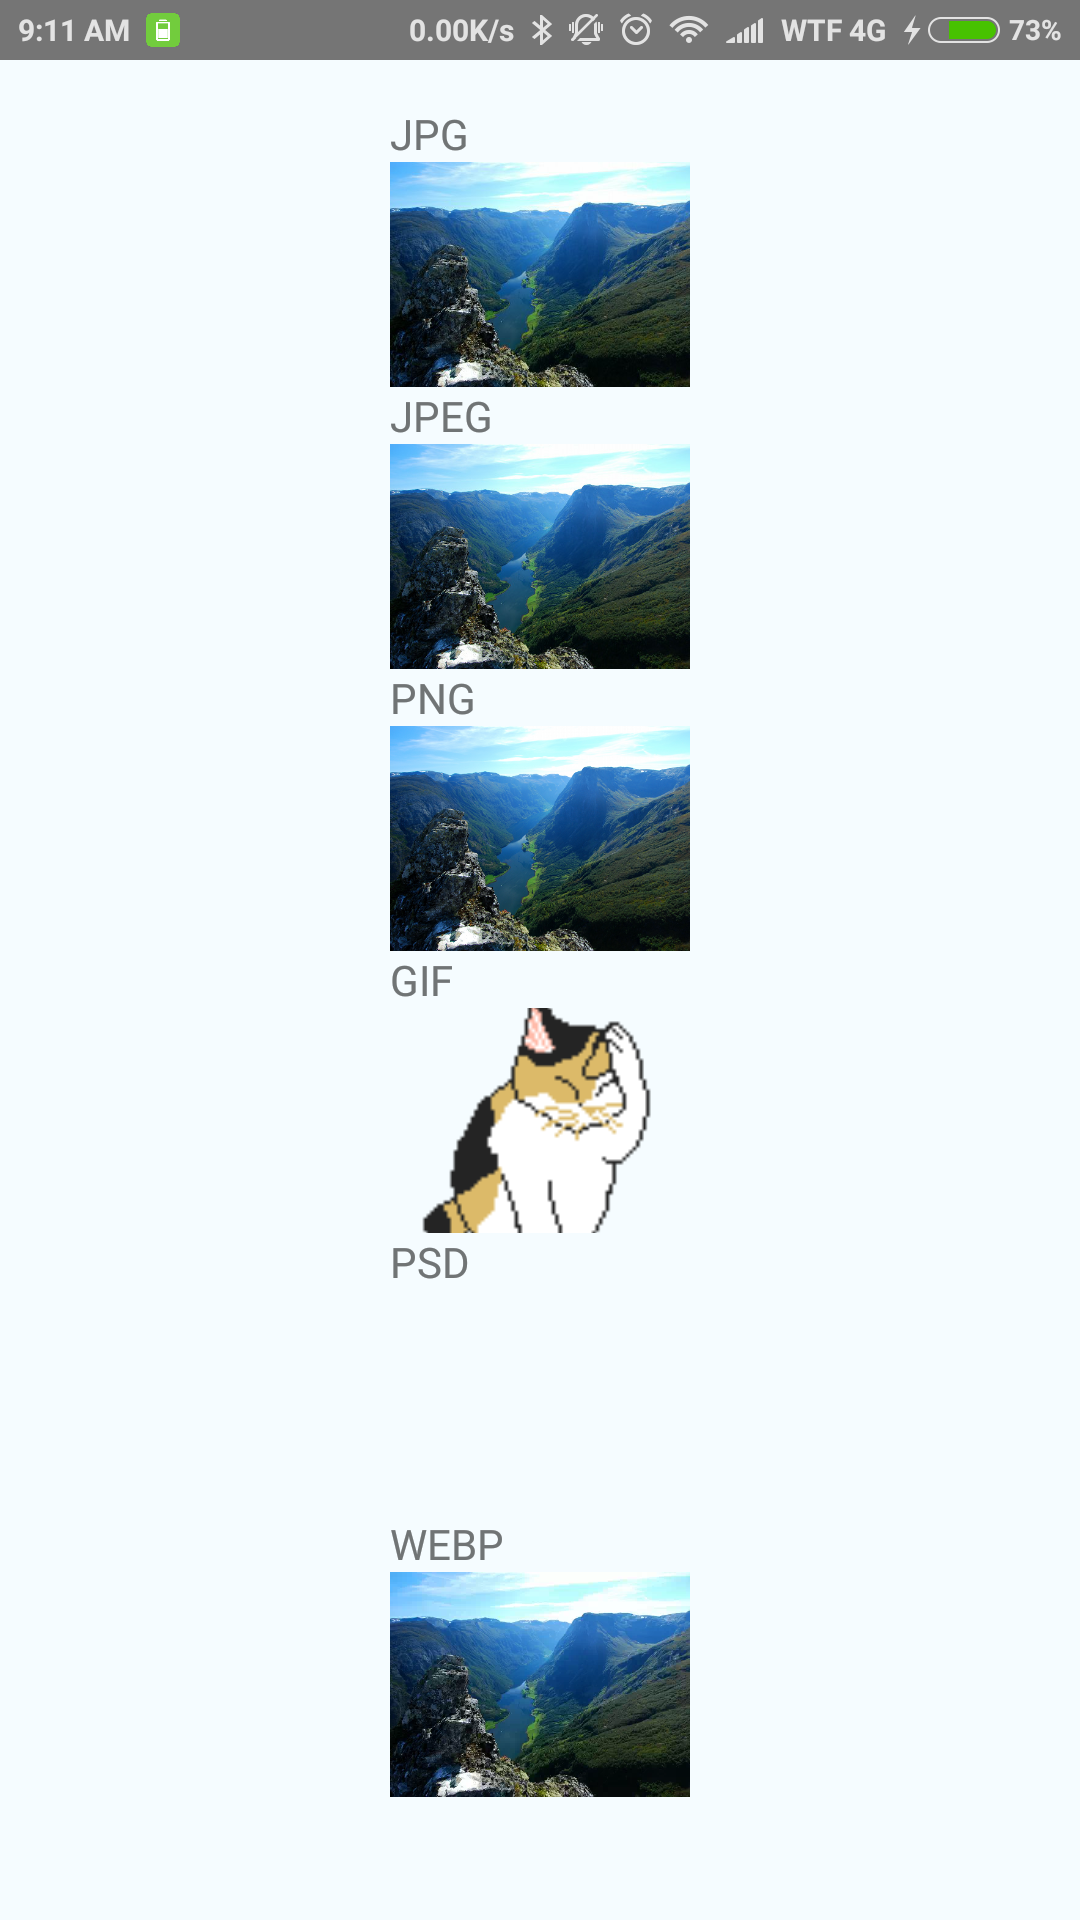
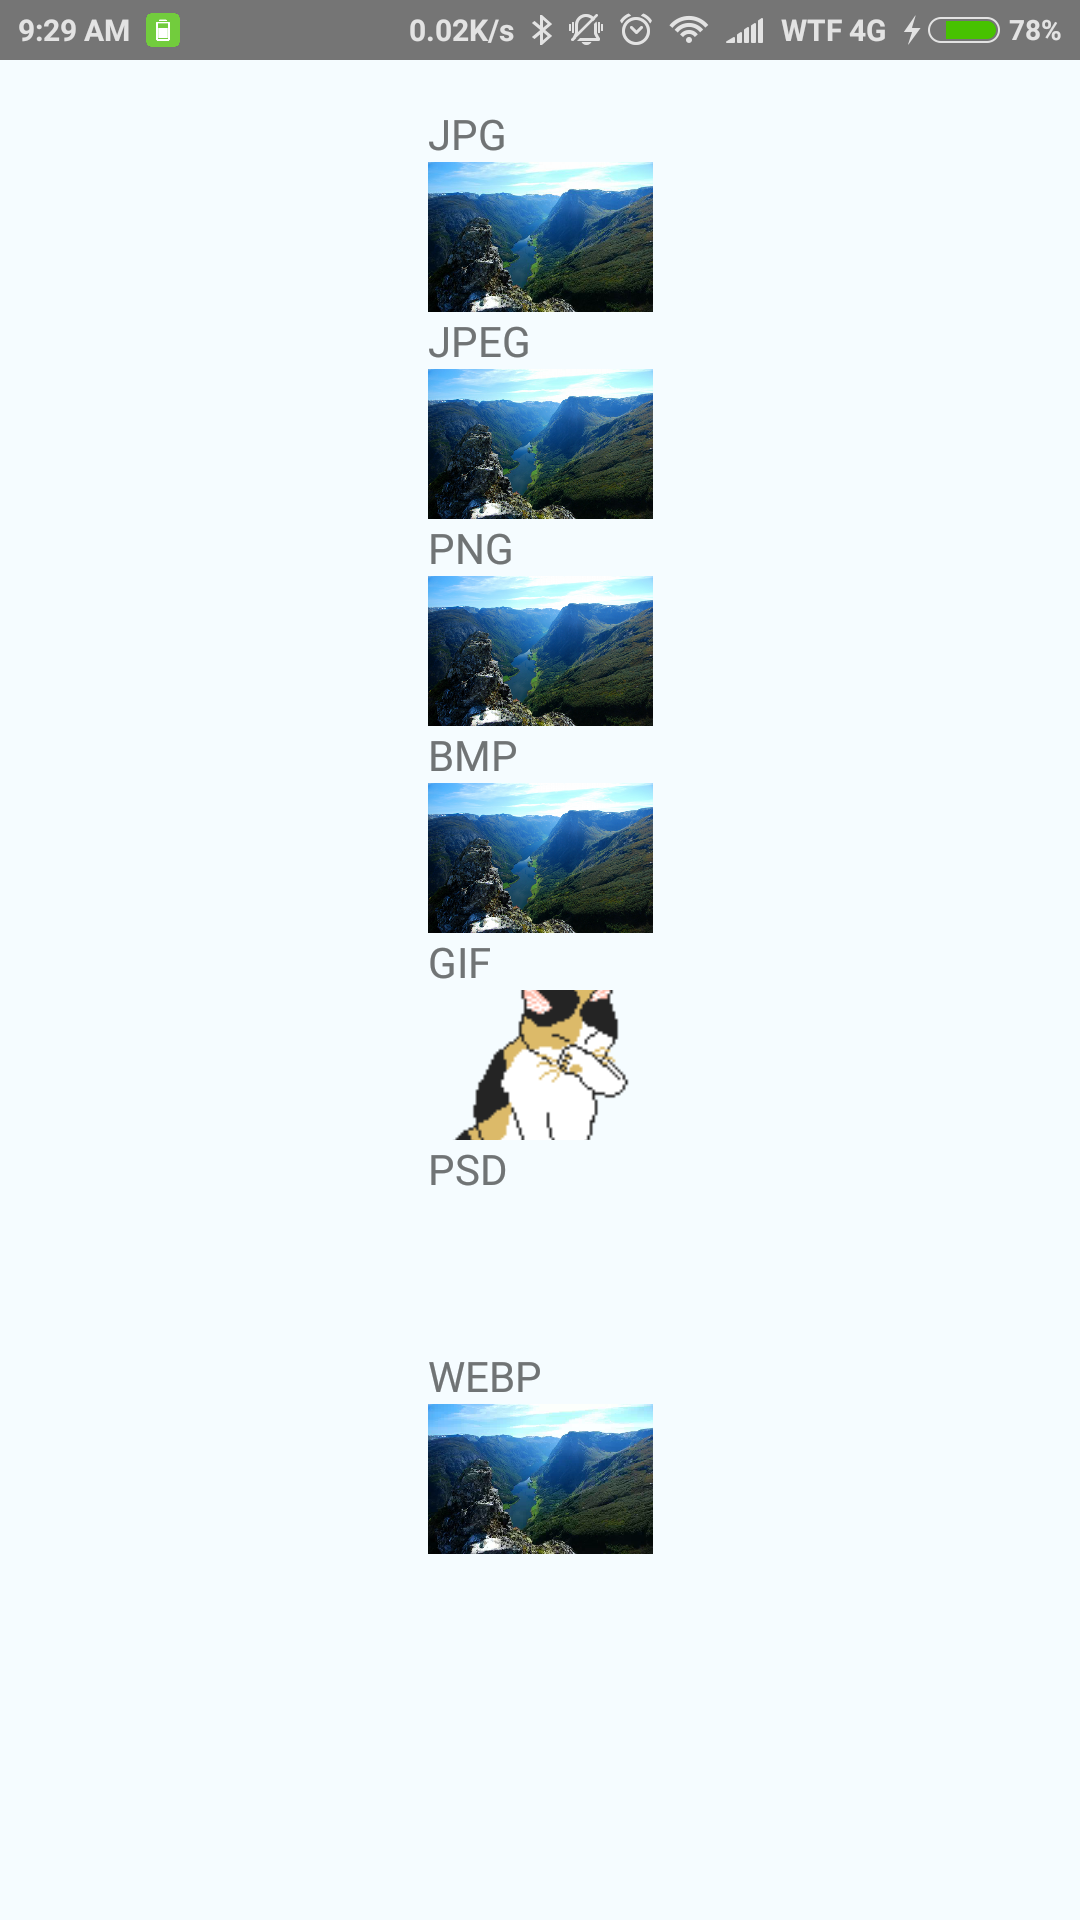
adding missing bmp

Changed region(s): [[0.3361, 0.0625, 0.6417, 0.9375], [0.0306, 0.0, 0.0611, 0.0312]]

diff --git a/index.android.js b/index.android.js
@@ -25,6 +25,8 @@ export default class imageTest extends Component {
 					<Image source={require('./images/test.jpeg')} style={styles.image} />
 					<Text>PNG</Text>
 					<Image source={require('./images/test.png')} style={styles.image} />
+					<Text>BMP</Text>
+					<Image source={require('./images/test.bmp')} style={styles.image} />
 					<Text>GIF</Text>
 					<Image source={require('./images/test.gif')} style={styles.image} />
 					<Text>PSD</Text>
@@ -48,8 +50,8 @@ const styles = StyleSheet.create({
     marginTop: 15
   },
 	image: {
-    width: 100,
-		height: 75
+    width: 75,
+		height: 50
 	}
 });
 

diff --git a/index.ios.js b/index.ios.js
@@ -25,6 +25,8 @@ export default class imageTest extends Component {
 					<Image source={require('./images/test.jpeg')} style={styles.image} />
 					<Text>PNG</Text>
 					<Image source={require('./images/test.png')} style={styles.image} />
+					<Text>BMP</Text>
+					<Image source={require('./images/test.bmp')} style={styles.image} />
 					<Text>GIF</Text>
 					<Image source={require('./images/test.gif')} style={styles.image} />
 					<Text>PSD</Text>
